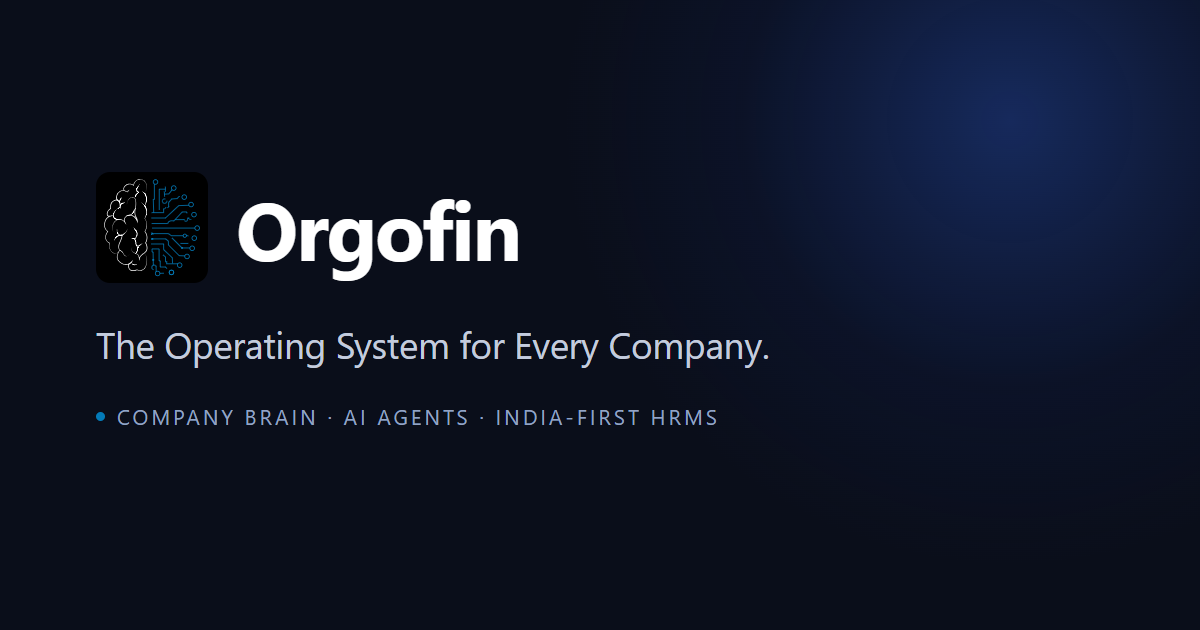
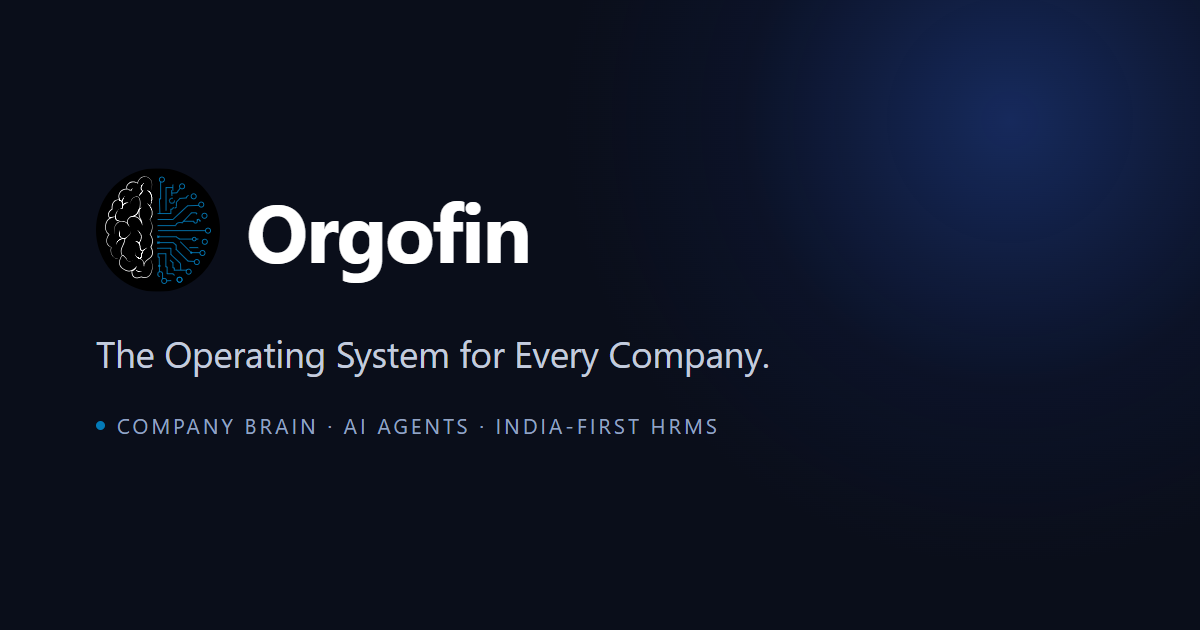
feat(brand): theme-paired circular mark, blended into the page
Three founder requests: separate light/dark logos, a circle instead of a
square, and the circle blended into the background with the brain clearly
visible at 48px. All three done using delivered files unmodified.

Getting there required correcting something I had asserted earlier: the
delivery has NO inverted (light-ink) variant. The lowercase lOGO-* files
look like white counterparts and are not — rendered on a mid-grey
background every one is dark ink. On the dark page lOGO--4 shows only its
blue circuit traces (the brain vanishes) and lOGO--3 only its interior
gyri. Testing on white or black alone hides this; grey is what reveals it.

So no single file can serve both themes, which is what forced a pair:

  light  LOGO-4-518.svg  untiled, single-colour, transparent — sits
                         directly on the page, nothing to blend away
  dark   LOGO-5-518.svg  white brain + blue traces on a pure-#000 tile,
                         the only form showing the COMPLETE mark on dark

Two CSS properties do the blending, neither touching the artwork:

- rounded-full clips the dark tile to a circle; unclipped its straight
  edge shows against the page.
- mix-blend-screen on the dark file only. The tile is pure black and
  screen maps black to "leave the backdrop alone", so the disc disappears
  exactly rather than almost. Without it the disc is faint on the page and
  OBVIOUS on a raised surface (#10141F), where the two blacks stop
[…]

Changed region(s): [[0.0617, 0.2714, 0.4625, 0.4825], [0.0617, 0.5127, 0.6475, 0.6032], [0.0617, 0.6333, 0.6167, 0.6937]]

diff --git a/src/components/layout/Logo.tsx b/src/components/layout/Logo.tsx
@@ -3,51 +3,99 @@ import { cn } from "@/lib/utils";
 export type LogoProps = {
   /** Show the "Orgofin" wordmark next to the mark. Default true. */
   withWordmark?: boolean;
-  /**
-   * Mark size in px (square). Default 36 — not 28, which is the size the
-   * previous geometric mark used. This artwork carries real interior detail, and
-   * side-by-side renders in the navbar show it only resolving from about 36px;
-   * below that the tile reads as a plain dark square. Raising the size is the
-   * one legibility lever available without editing the artwork, which is
-   * off-limits (docs/brand/brand-assets.md).
-   */
+  /** Mark size in px (square). Default 48 — see the note on legibility below. */
   size?: number;
   className?: string;
 };
 
 /**
- * The Orgofin brand lockup — the founders' mark plus the wordmark.
+ * The Orgofin brand lockup — the delivered mark plus the wordmark.
  *
- * The mark is the designers' delivered artwork, used **unmodified**:
- * `docs/brand/logo/LOGO-5-518.svg`, copied byte-identical to
- * `public/brand/orgofin-mark.svg`. Nothing here redraws, recolours or
- * simplifies it — an earlier attempt at a simplified redraw was rejected by the
- * founders, and the delivered file is the design of record.
+ * **The artwork is used unmodified.** Both files are byte-identical copies of
+ * delivered files (`cmp`-verified, see docs/brand/brand-assets.md). Nothing here
+ * redraws, recolours or restrokes them — an earlier simplified redraw was
+ * rejected by the founders, and the delivered files are the design of record.
  *
- * LOGO-5 was chosen from the five delivered designs because it is the only
- * family that stays legible at icon sizes: it is self-contained — a rounded
- * black tile carrying the white brain and blue circuit traces — so it needs no
- * light/dark variant and cannot vanish on either background. The untiled
- * designs are flat single-colour artwork that disappears against the dark page.
- * Full comparison and the evidence behind the choice: `docs/brand/brand-assets.md`.
+ * ## Why two files
  *
- * Served as an `<img>` rather than inlined: the file is 33KB of path data, and
- * inlining would put that in the navbar *and* footer of every page instead of
- * fetching it once and caching it.
+ * The delivery has no inverted (light-ink) untiled variant — every `lOGO-*` file
+ * is dark ink despite the naming, which is only visible if you render them on a
+ * mid-grey background. So a single untiled file cannot serve both themes: on the
+ * dark page its brain half disappears and only the circuit traces survive.
+ *
+ * The pair that does work, using files as delivered:
+ *
+ * - **Light:** `LOGO-4-518.svg` — untiled, single-colour blue. Transparent, so
+ *   it sits directly on the page with nothing to blend away.
+ * - **Dark:** `LOGO-5-518.svg` — white brain and blue traces on a near-black
+ *   (`#000`) tile. Against the `#080a11` page that tile is all but
+ *   indistinguishable, so clipped to a circle it blends into the background and
+ *   the mark reads as free-standing.
+ *
+ * Two CSS properties do the blending, and both are needed:
+ *
+ * - `rounded-full` clips the dark file's square tile to a circle; unclipped, its
+ *   straight edge is visible against the page. A no-op for the light file, which
+ *   has no tile, but applied to both so the themes share one footprint.
+ * - `mix-blend-screen` on the dark file only. The tile is pure `#000`, and
+ *   `screen` maps black to "leave the backdrop alone", so the disc disappears
+ *   exactly instead of almost. Without it the disc is faintly visible on the
+ *   page and **obviously** visible on a raised surface (`#10141f`), where the
+ *   two blacks no longer nearly match. It must not go on the light file — screen
+ *   against a light backdrop would erase dark artwork entirely.
+ *
+ * Neither touches the artwork; both are presentation.
+ *
+ * ## Size
+ *
+ * 48px by default. This artwork carries real interior detail: side-by-side
+ * renders show it only resolving from about 36px, and 48px is where the brain is
+ * unambiguous. Raising the size is the only legibility lever available while
+ * editing the artwork is off the table.
  */
-export function Logo({ withWordmark = true, size = 36, className }: LogoProps) {
+const MARK_CLASSES = "shrink-0 rounded-full";
+
+/**
+ * Both files are near-square but not exactly (light 0.984, dark 1.009), and
+ * Tailwind Preflight sets `img { height: auto }` — which overrides the `height`
+ * attribute and would render a 48×49 ellipse instead of a circle. An inline
+ * style beats Preflight, forcing a true square; the ≤1.6% distortion that costs
+ * is imperceptible and is the price of a real circle.
+ */
+const squareStyle = (size: number) => ({ width: size, height: size });
+
+export function Logo({ withWordmark = true, size = 48, className }: LogoProps) {
+  const alt = withWordmark ? "" : "Orgofin home";
+  const ariaHidden = withWordmark ? true : undefined;
+
   return (
-    <span className={cn("inline-flex items-center gap-2", className)}>
-      {/* eslint-disable-next-line @next/next/no-img-element -- next/image adds
-          no value for a vector (nothing to resize or re-encode) and would need
+    <span className={cn("inline-flex items-center gap-2.5", className)}>
+      {/* Two files, swapped by theme — see the component doc for why one cannot
+          serve both. `dark:` is bound to the `.dark` class, so this follows the
+          site's theme toggle rather than the OS setting.
+
+          eslint-disable-next-line is on each: next/image adds nothing for a
+          vector (nothing to resize or re-encode) and would need
           `dangerouslyAllowSVG` enabled project-wide to pass an SVG through. */}
+      {/* eslint-disable-next-line @next/next/no-img-element */}
       <img
-        src="/brand/orgofin-mark.svg"
-        alt={withWordmark ? "" : "Orgofin home"}
-        aria-hidden={withWordmark ? true : undefined}
+        src="/brand/orgofin-mark-light.svg"
+        alt={alt}
+        aria-hidden={ariaHidden}
         width={size}
         height={size}
-        className="shrink-0"
+        style={squareStyle(size)}
+        className={cn(MARK_CLASSES, "dark:hidden")}
+      />
+      {/* eslint-disable-next-line @next/next/no-img-element */}
+      <img
+        src="/brand/orgofin-mark-dark.svg"
+        alt={alt}
+        aria-hidden={ariaHidden}
+        width={size}
+        height={size}
+        style={squareStyle(size)}
+        className={cn(MARK_CLASSES, "hidden dark:block", "mix-blend-screen")}
       />
       {withWordmark && (
         <span className="text-heading-md text-fg font-semibold tracking-tight">
